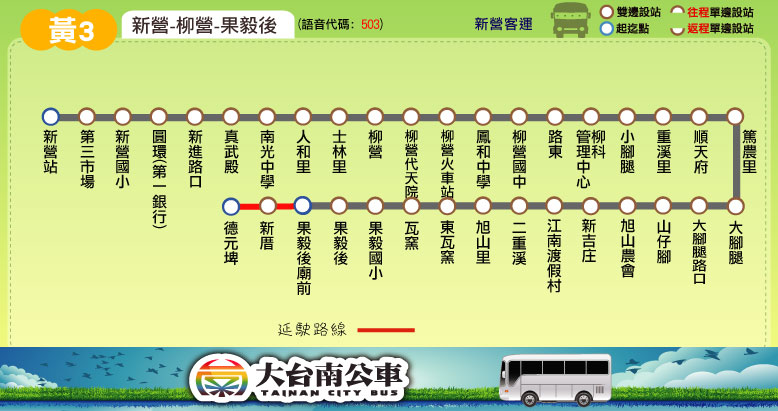
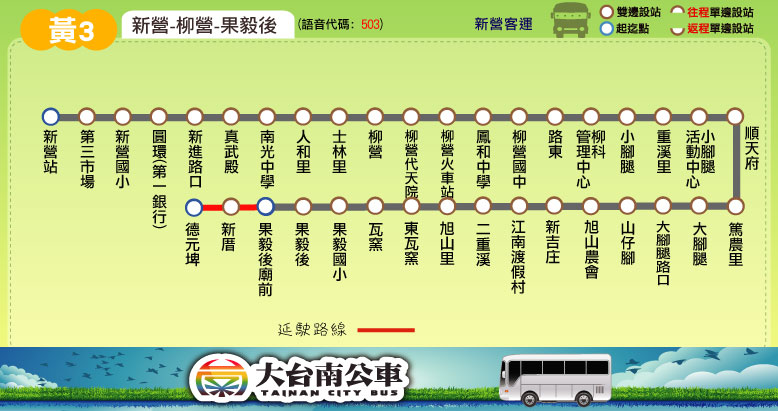
【黃3】改道行經小腳腿多功能活動中心，並增設站位，另現有之『順天府』站則配合行駛路線遷移至順天府廟前。

diff --git a/yellow/yellow_3.html b/yellow/yellow_3.html
@@ -7,7 +7,7 @@
 	route_name_en = 'Yellow 3';
 	route_file_name = 'yellow_3';
 	route_type = 'yellow';
-	route_interval = ['新營','柳營','果毅後'];
+	route_interval = ['新營','果毅後','德元埤'];
 </script>
 <script src="../tools/web_model.js"></script> 
 <script type="text/javascript">
@@ -20,7 +20,7 @@
 	block_route_map(null);
 	block_route_info(route_interval,'新營客運','','里程計費','http://2384.tainan.gov.tw:8080/AGPSRemoteQuery3/ajaxBus.jsp?pathId=1503&locale=zh_TW');
 	block_fare(0, null);
-	block_time_schedule('新營','果毅後廟前','「<span style="color: red;">H</span>」表示配合「2016德元埤荷蘭村花憶風車節」活動乘車需求，<br />於105年10月8、9、10、15、16、22、23日等例假日計7天，增開行駛之加班車。');
+	block_time_schedule('新營','果毅後廟前/德元埤','「<span style="color: red;">H</span>」表示配合「2016德元埤荷蘭村花憶風車節」活動乘車需求，<br />於105年10月8、9、10、15、16、22、23日等例假日計7天，增開行駛之加班車。');
 	block_transfer(transfer_hsinyin + transfer_liouying + transfer_liouying_railway_station);
 	block_copyright();
 </script>

diff --git a/tools/route_infor.js b/tools/route_infor.js
@@ -73,7 +73,7 @@ orange_20_route = '大內 ─ 環湖 ─ 玉井';
 yellow_route = '白河 ─ 新營 ─ 柳營 ─ 麻豆';
 yellow_1_route = '新營 ─ 柳營 ─ 六甲 ─ 南藝大';
 yellow_2_route = '新營 ─ 柳營 ─ 六甲 ─ 王爺宮';
-yellow_3_route = '新營 ─ 柳營 ─ 果毅後';
+yellow_3_route = '新營 ─ 柳營 ─ 果毅後 ─ 德元埤';
 yellow_4_route = '新營 ─ 二重溪 ─ 六甲';
 yellow_5_route = '新營 ─ 紅毛厝 ─ 下營';
 yellow_6_route = '新營 ─ 白沙屯 ─ 後壁火車站';

diff --git a/route/fare_and_time/yellow_3.js b/route/fare_and_time/yellow_3.js
@@ -5,7 +5,7 @@ yellow_3_interval_stop = [ // 2016.08.01 update
 ["士林里","柳營","柳營代天院","柳營火車站","鳳和中學"], // 柳營
 ["柳營國中","路東"], // 路東
 ["柳科管理中心","小腳腿"], // 小腳腿
-["重溪里","順天府","篤農里"], // 重溪里
+["重溪里","小腳腿活動中心","順天府","篤農里"], // 重溪里
 ["大腳腿","大腳腿路口"], // 大腳腿
 ["山仔腳","旭山農會","新吉庄"], // 山仔腳
 ["江南渡假村"], // 江南渡假村
